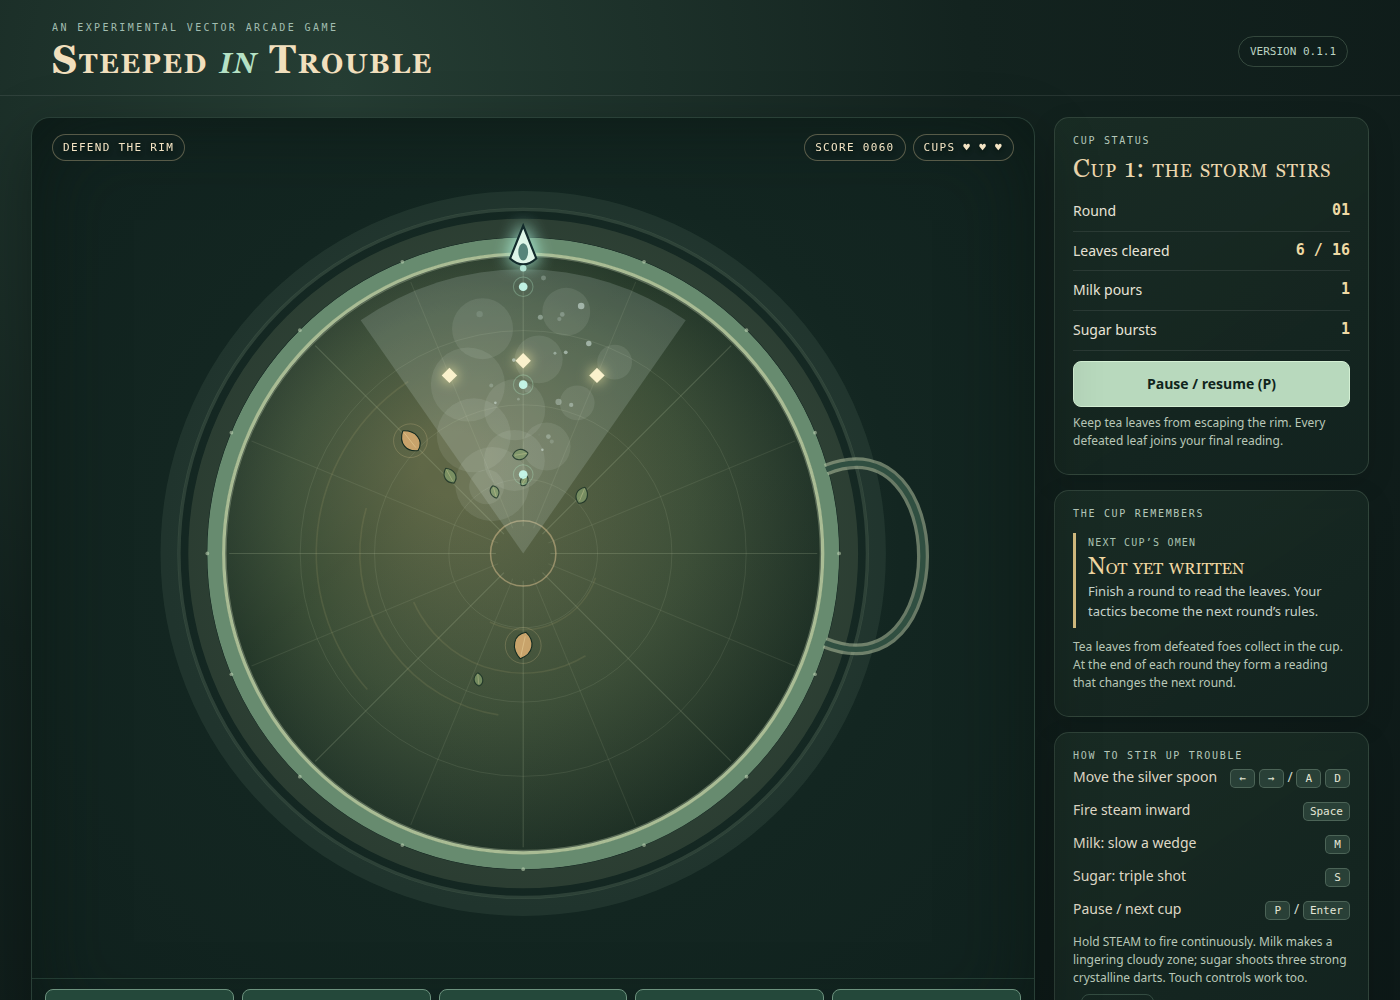
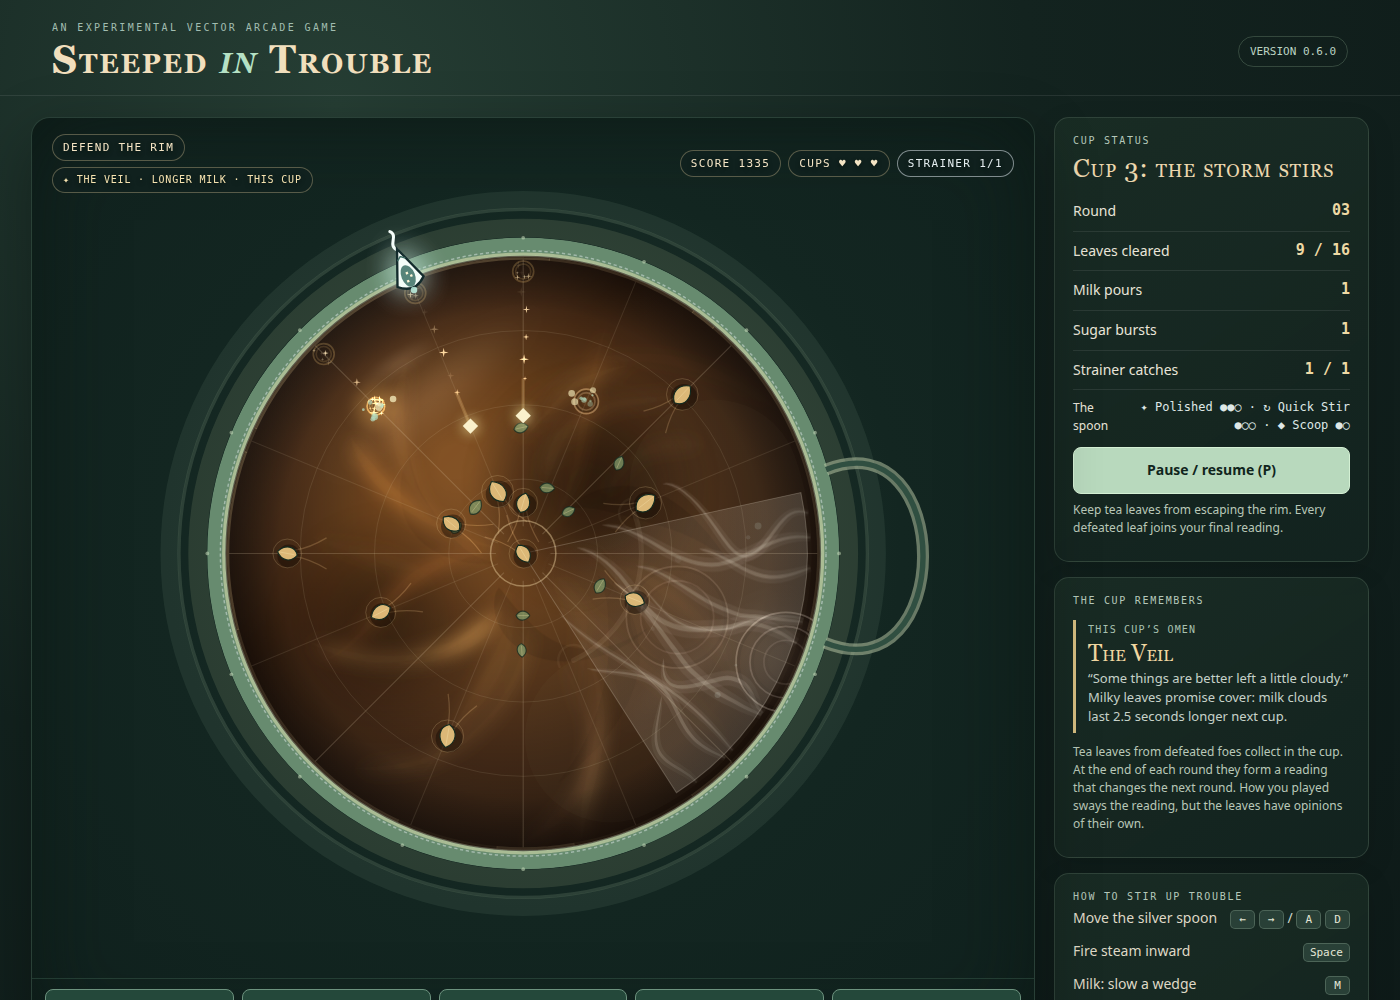
chore: release 0.6.0 — The Kettle Sings
Bump the version, date the changelog, and refresh the README: a new
screenshot, a short "How to play", and the options gathered in one place.
Fortune descriptions drop "next cup", which contradicted the "This cup's
omen" label during play.

diff --git a/src/gameplay/fortunes.js b/src/gameplay/fortunes.js
@@ -68,7 +68,7 @@ export const FORTUNES = Object.freeze({
     id: 'crown',
     name: 'The Crown',
     quote: 'Heavy is the head that wears the teacup.',
-    info: 'A cluster of leaves foretells abundance: +1 sugar burst next cup.',
+    info: 'A cluster of leaves foretells abundance: +1 sugar burst.',
     tag: '+1 sugar',
     tone: 'good',
     color: '#eed393',
@@ -82,7 +82,7 @@ export const FORTUNES = Object.freeze({
     id: 'veil',
     name: 'The Veil',
     quote: 'Some things are better left a little cloudy.',
-    info: 'Milky leaves promise cover: milk clouds last 2.5 seconds longer next cup.',
+    info: 'Milky leaves promise cover: milk clouds last 2.5 seconds longer.',
     tag: 'longer milk',
     tone: 'good',
     color: '#d1e8de',
@@ -118,7 +118,7 @@ export const FORTUNES = Object.freeze({
     id: 'star',
     name: 'The Star',
     quote: 'A clear cup and a steady spoon.',
-    info: 'A clear cup guides the spoon: steam darts travel 35% faster next cup.',
+    info: 'A clear cup guides the spoon: steam darts travel 35% faster.',
     tag: 'fast steam',
     tone: 'good',
     color: '#cfdeef',

diff --git a/README.md b/README.md
@@ -1,23 +1,38 @@
 # Steeped in Trouble
 
 An original, experimental, tea-themed vector arcade game. Defend the rim of a
-stormy teacup with a silver spoon, fire steam at rising tea leaves, and use
-milk and sugar wisely. The leaves you defeat settle in the cup, and their
+stormy teacup with a silver spoon: fire steam at rising tea leaves, and spend
+your milk and sugar wisely. The leaves you defeat settle in the cup, and their
 pattern is read as a fortune that changes the next round.
 
 **[▶ Play it in your browser](https://libertaine.github.io/Steeped-in-Trouble/)**
 
-![Steeped in Trouble gameplay: a silver spoon on the rim of a circular teacup fires steam at tea leaves while a milk cloud slows them](docs/images/screenshot.png)
+![Steeped in Trouble in round 3: the silver spoon on the rim of a teacup fires a sugar burst and steam at tea leaves while a milk cloud covers one side. The side panel shows the spoon's upgrades and this cup's omen, The Veil.](docs/images/screenshot.png)
 
 ## Status
 
-Version **0.5.0 — Something's Brewing**: a rare prismatic sugar cube that
-sets off a Steam Nova down every lane, and unexpected brews: combinations of
-upgrades and fortunes that do something new. The leaves have also started
-noticing how you play. See the [changelog](CHANGELOG.md) for earlier
-versions. Expect frequent experimental changes in later versions.
+Version **0.6.0 — The Kettle Sings** gives the cup a voice. With sound on, a
+small procedural band plays along. It picks up the pace in later rounds and
+in stormy tea, builds as leaves close in on the rim, and settles once you
+clear them. See the [changelog](CHANGELOG.md) for earlier versions. The game
+is experimental, so expect it to keep changing.
 
 The game was called *Storm in a Teacup* up to version 0.1.0.
+
+## How to play
+
+- Tea leaves drift out from the centre of the cup. Each one that reaches the
+  rim spills, costing one of your three cups. Lose them all and the pot runs
+  dry.
+- The spoon circles the rim and fires down the nearest lane. Steam is
+  unlimited. Each round you also get a couple of milk pours, which push leaves
+  back and slow them, and a couple of sugar bursts, which fire down three
+  lanes at once.
+- Clear enough leaves to finish the round. The leaves you defeated are then
+  read, and their fortune changes the next round. Every other round you also
+  choose an upgrade for your spoon, which lasts for the whole pot.
+- Keep an eye out for sugar cubes, and try unusual combinations. Some of
+  them brew something unexpected.
 
 ## Controls
 
@@ -32,14 +47,14 @@ The game was called *Storm in a Teacup* up to version 0.1.0.
 | Pick a spoon upgrade | <kbd>1</kbd> / <kbd>2</kbd> | tap a card |
 | Restart after game over | <kbd>R</kbd> | main button |
 
-Sound is off by default. Use the **Sound** toggle to enable sound effects and
-an adaptive soundtrack that follows the tension in the cup.
+## Options
 
-Add `?seed=<number>` to the URL to replay the same sequence of tea leaves.
-
-The **Graphics** toggle switches the tea between high quality (full-resolution
-liquid with glowing currents) and low quality for older machines. You can also
-add `?graphics=low` or `?graphics=high` to the URL.
+- **Sound** is off by default. Turn it on for synthesized sound effects and
+  the adaptive soundtrack.
+- **Graphics** switches between high quality (full-resolution tea with
+  glowing currents) and low quality for older machines. You can also add
+  `?graphics=low` or `?graphics=high` to the URL.
+- Add `?seed=<number>` to the URL to replay the same sequence of tea leaves.
 
 ## Running locally
 
@@ -88,12 +103,12 @@ On Windows PowerShell, run `$env:BASE_URL="https://libertaine.github.io/Steeped-
 
 ## Project documentation
 
-- [Architecture](docs/ARCHITECTURE.md): how the code fits together and how to
+- [Architecture](docs/ARCHITECTURE.md): how the code fits together, and how to
   add enemies, weapons, and fortunes
-- [Game design](docs/GAME_DESIGN.md): creative direction, current mechanics,
-  and future ideas
-- [Development](DEVELOPMENT.md): how we work on the game
-- [Contributing](CONTRIBUTING.md): development workflow
+- [Game design](docs/GAME_DESIGN.md): creative direction, the full rules
+  (secrets included, so beware of spoilers), and future ideas
+- [Development](DEVELOPMENT.md): the principles for working on the game
+- [Contributing](CONTRIBUTING.md): branching, checks, and releases
 - [Reference prototype](docs/reference/README.md): the preserved original and
   its differences from 0.1.0
 - [Changelog](CHANGELOG.md)

diff --git a/CHANGELOG.md b/CHANGELOG.md
@@ -5,12 +5,21 @@ All notable changes to this project are documented here. The project uses
 
 ## [Unreleased]
 
+## [0.6.0] - 2026-10-27 — The Kettle Sings
+
 ### Added
 
 - **Adaptive soundtrack:** with sound on, a procedural synth band follows the
   cup. Tempo drifts with the round and the fortune; layers build as leaves
   near the rim and relax when they're cleared. The Golden Spoon, Tempestuous
   Tea, and the Steam Nova each colour it.
+
+### Changed
+
+- Fortune descriptions no longer say "next cup" while that cup is being
+  played.
+- README: a new screenshot, a short "How to play", and the sound, graphics,
+  and seed options gathered in one place.
 
 ## [0.5.0] - 2026-10-27 — Something's Brewing
 
@@ -116,7 +125,10 @@ with the same gameplay.
 See [docs/reference/README.md](docs/reference/README.md) for the complete
 list of differences.
 
-[0.4.0]: https://github.com/libertaine/Steeped-in-Trouble/compare/73e1fad...main
+[Unreleased]: https://github.com/libertaine/Steeped-in-Trouble/compare/v0.6.0...main
+[0.6.0]: https://github.com/libertaine/Steeped-in-Trouble/compare/v0.5.0...v0.6.0
+[0.5.0]: https://github.com/libertaine/Steeped-in-Trouble/compare/13b097c...v0.5.0
+[0.4.0]: https://github.com/libertaine/Steeped-in-Trouble/compare/73e1fad...13b097c
 [0.3.0]: https://github.com/libertaine/Steeped-in-Trouble/compare/f0357ee...73e1fad
 [0.2.0]: https://github.com/libertaine/Steeped-in-Trouble/compare/v0.1.1...f0357ee
 [0.1.1]: https://github.com/libertaine/Steeped-in-Trouble/releases/tag/v0.1.1

diff --git a/docs/GAME_DESIGN.md b/docs/GAME_DESIGN.md
@@ -166,8 +166,8 @@ with its name and reward.
 
 | Secret | Earned when… | Reward |
 | --- | --- | --- |
-| **Not a drop wasted.** | 12+ steam shots in the round, and every one hit something | +250, and one extra sugar burst next cup |
-| **More leaves than steam.** | 8+ steam shots, and steam destroyed more leaves than shots fired | The Golden Spoon (its 9 s run during the next cup) |
+| **Not a drop wasted.** | 12+ steam shots in the round, and every one hit something | +250, and one extra sugar burst next round |
+| **More leaves than steam.** | 8+ steam shots, and steam destroyed more leaves than shots fired | The Golden Spoon (its 9 s run during the next round) |
 
 A *shot* is one press of fire: a Double Trouble pair is one shot, and it hits
 if either dart does. Striking a sugar cube counts as a hit. Sugar bursts and
@@ -183,7 +183,7 @@ Not everything is announced. When a steam dart destroys a leaf inside or
 beside a milk cloud, there is a 20% chance the cream carries it on to the
 next leaf in its path (once per dart, shown only as a pale streak behind it).
 
-## Coming in 0.6.0 — sound
+## Added in 0.6.0 — The Kettle Sings
 
 ### The adaptive soundtrack
 

diff --git a/CONTRIBUTING.md b/CONTRIBUTING.md
@@ -4,7 +4,7 @@ This is a small, experimental arcade game. The process is meant to stay light.
 
 ## Workflow
 
-1. Branch from `main` for gameplay changes (`git switch -c feature/new-leaf`).
+1. Branch from `main` for gameplay changes (`git switch -c feat/new-leaf`).
 2. Make the change and test locally: `npm run check`, plus
    `npm run test:browser` for anything touching the page, input, or rendering.
 3. Open a pull request for meaningful changes. CI runs lint, unit tests, and
@@ -30,4 +30,5 @@ The repository owner may push small or experimental changes straight to
 Public builds use semantic versioning: `0.1.0` is the preserved prototype,
 and experiments continue as `0.2.0`, `0.3.0`, and so on. To release, bump
 `version` in `package.json` (the in-game badge reads it), add a
-`CHANGELOG.md` entry, and tag the commit `vX.Y.Z`.
+`CHANGELOG.md` entry, tag the commit `vX.Y.Z`, and create a GitHub release
+from the tag.
